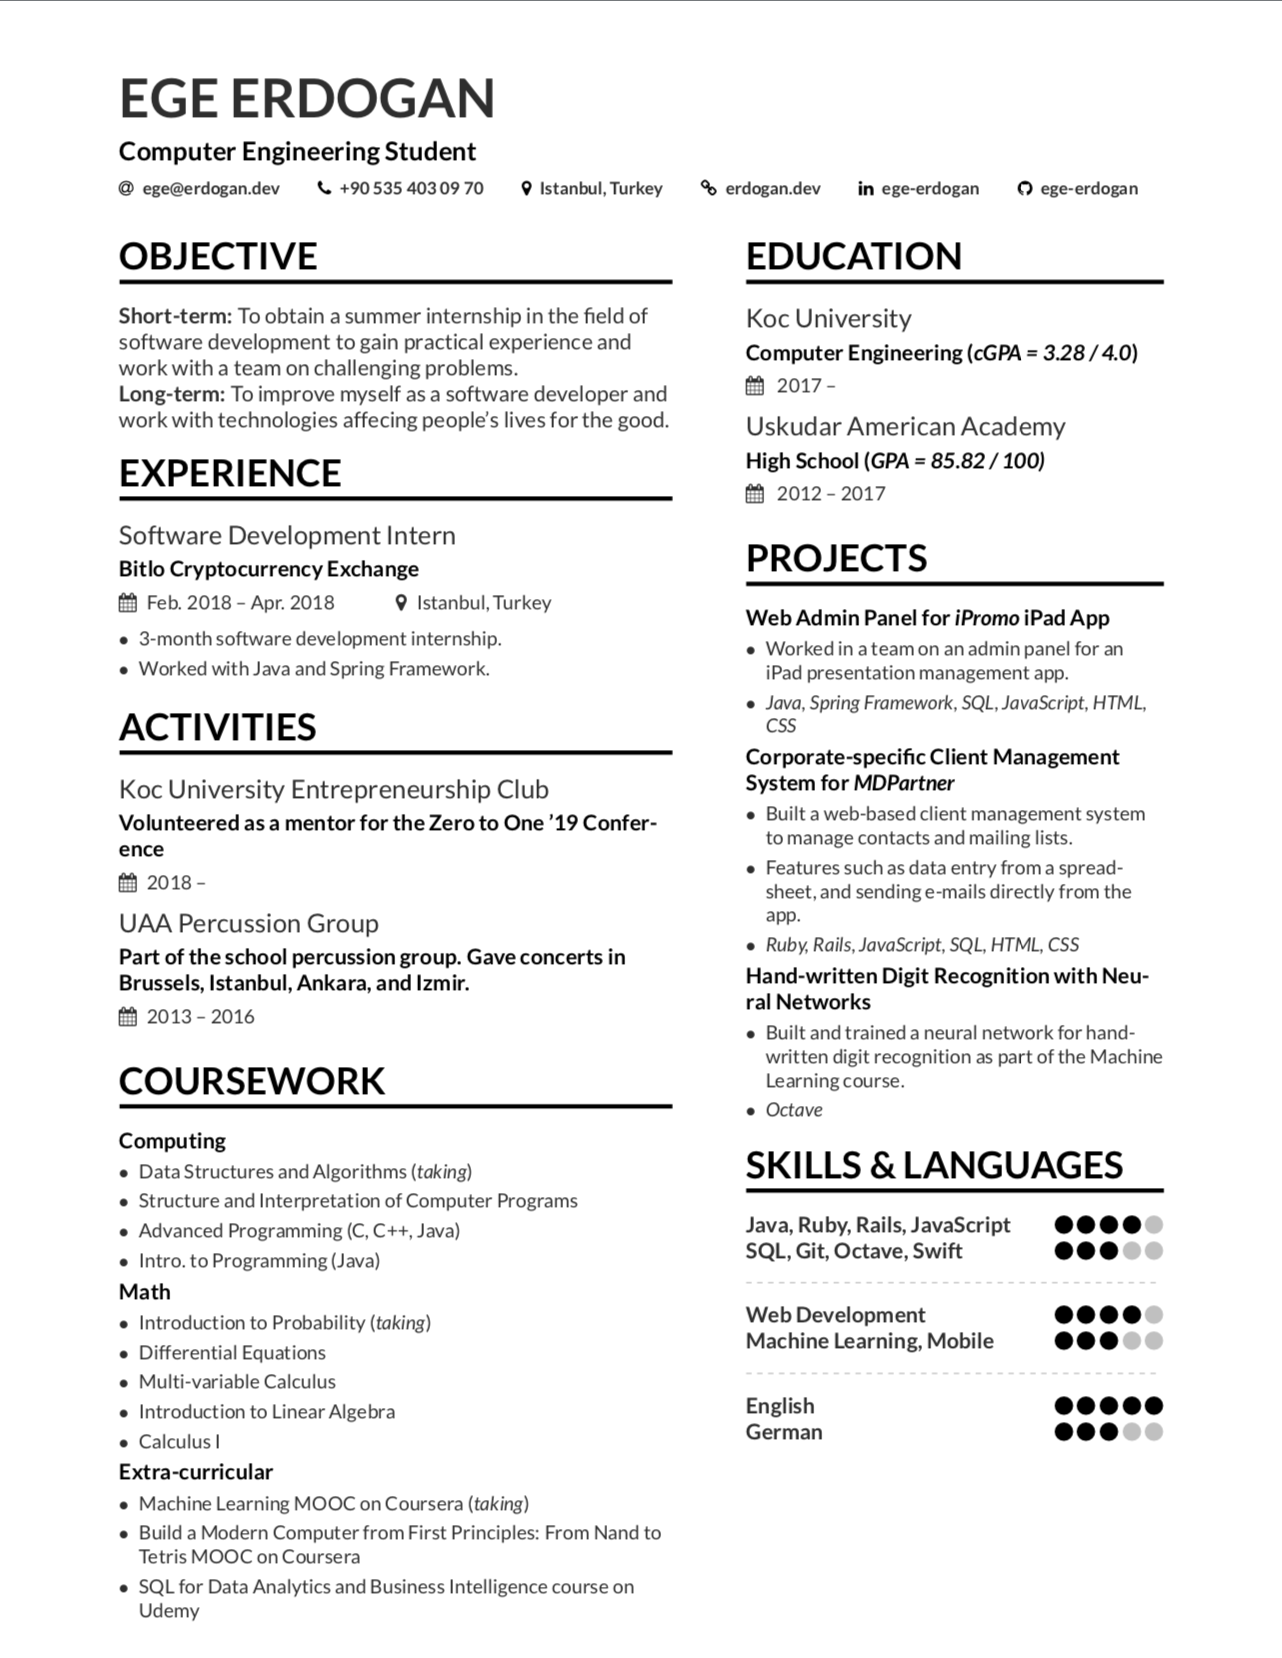
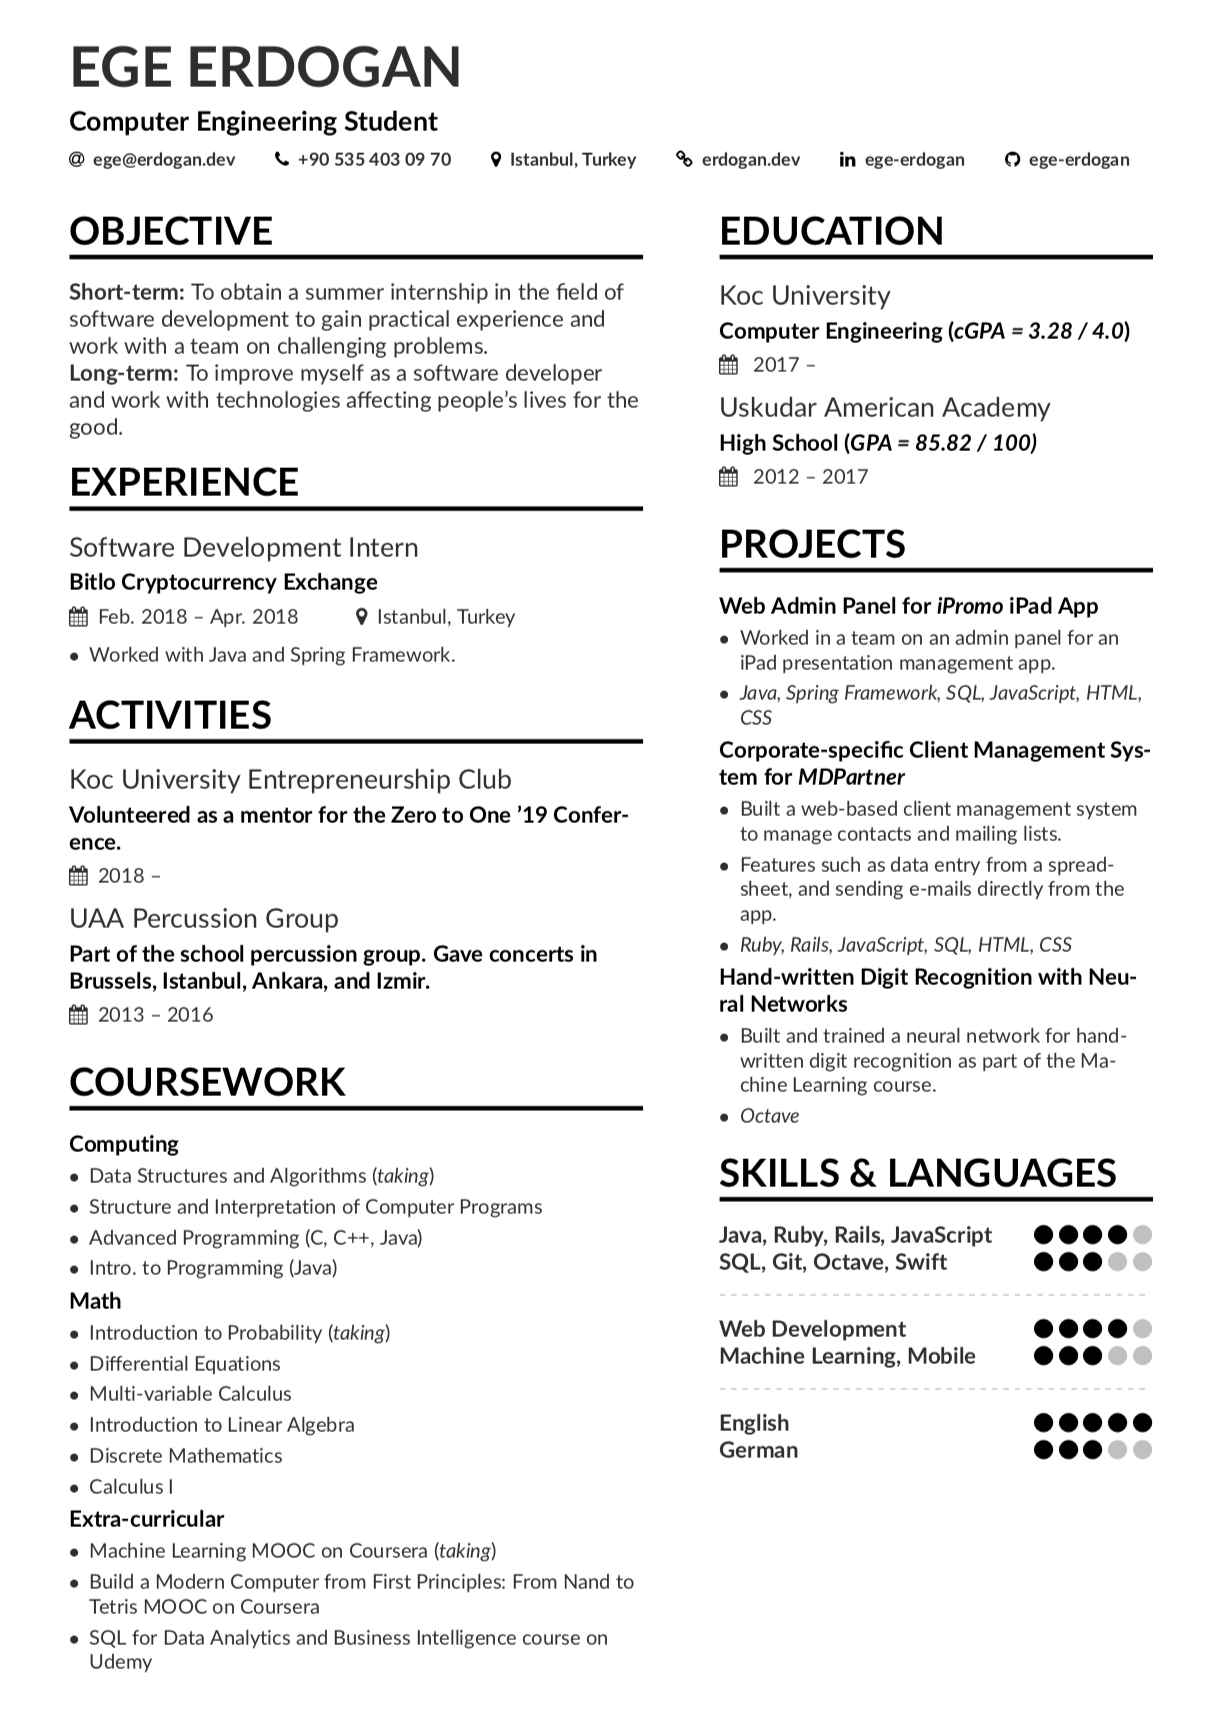
changes

Changed region(s): [[0.061, 0.0, 0.5181, 0.9843], [0.5486, 0.0923, 0.9448, 0.892]]

diff --git a/resume.tex b/resume.tex
@@ -68,7 +68,6 @@
 \cvsection{Experience}
 \cvevent{Software Development Intern}{Bitlo Cryptocurrency Exchange}{Feb. 2018 -- Apr. 2018}{Istanbul, Turkey}
 \begin{itemize}
-    \item 3-month software development internship.
     \item Worked with Java and Spring Framework. 
 \end{itemize}
 
@@ -92,6 +91,7 @@
     \item Differential Equations
     \item Multi-variable Calculus
     \item Introduction to Linear Algebra
+    \item Discrete Mathematics
     \item Calculus I
 \end{itemize}
 \cvproject{Extra-curricular}
